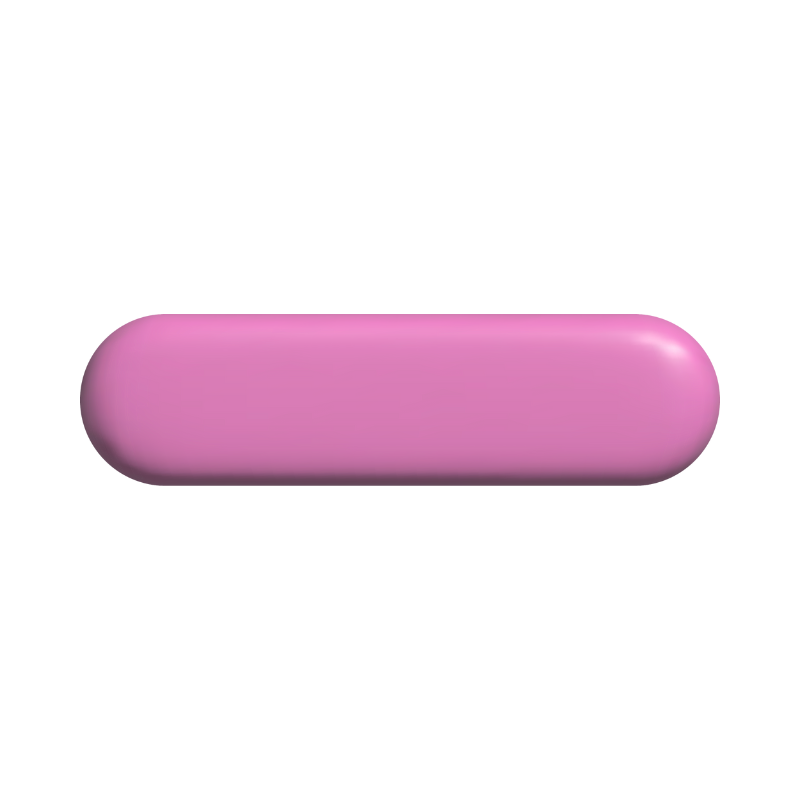
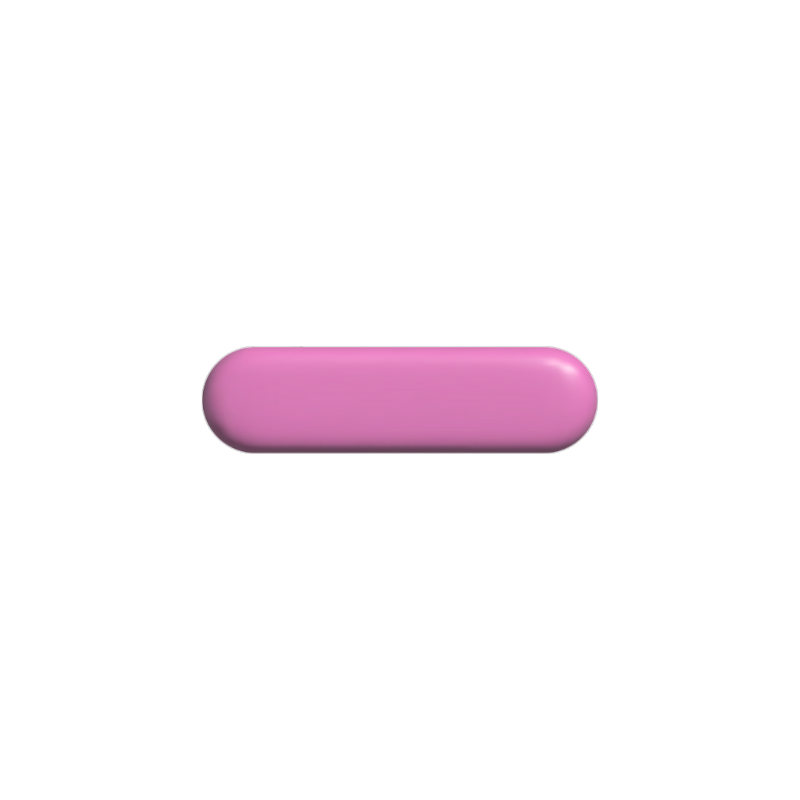
mudança de imagens

Changed region(s): [[0.0938, 0.375, 0.9062, 0.625]]

diff --git a/davim/index.html b/davim/index.html
@@ -1,245 +1,117 @@
 <!DOCTYPE html>
 <html lang="pt-BR">
+
 <head>
   <title>☆Davi G☆</title>
   <link real="stylesheet" href="estilos.css">
-    <meta name="viewport" content="width=device-width, initial-scale=1.0">
+  <meta name="viewport" content="width=device-width, initial-scale=1.0">
   <style>
-    img{
-      max-width: 100%;
-      height: auto;
-    }
-    body{
+
+    body {
       background-color: aliceblue;
     }
-    body{
+
+    body {
       margin: 0;
       padding: 0;
     }
-    h1{
+
+    h1 {
       color: rgb(244, 141, 204);
       text-align: center;
       flex-wrap: wrap;
     }
-    .imagem-solta1{
-      margin-top: 10%;
-      margin-left: 59%;
-      gap: 300px;
-      justify-content: center;
-       align-items:  flex-start;
-       display: inline-block;
-       flex-wrap: wrap;
-    }
-    .imagem-solta2{
-      top: 20%;
-      left: 59%;
-      width: 200px;
-      justify-content: center;
-       align-items:  flex-start;
-       display: inline-block;
-       flex-wrap: wrap;
-    }
-    .imagem-solta3{
-      top: 30%;
-      left: 59%;
-      width: 200px;
-      justify-content: center;
-       align-items:  flex-start;
-       display: inline-block;
-       flex-wrap: wrap;
-    }
-    .imagem-solta4{
-      top: 40%;
-      left: 59%;
-      width: 200px;
-      justify-content: center;
-       align-items:  flex-start;
-       display: inline-block;
-       flex-wrap: wrap;
-    }
-    .imagem-solta5{
-      top: 50%;
-      left: 59%;
-      width: 200px;
-      justify-content: center;
-       align-items:  flex-start;
-       display: inline-block;
-       flex-wrap: wrap;
-    }
-    .imagem-solta6{
-      top: 60%;
-      left: 59%;
-      width: 200px;
-      justify-content: center;
-       align-items:  flex-start;
-       display: inline-block;
-       flex-wrap: wrap;
-    }
-    .imagem-solta7{
+
+    .imagem-solta1 {
       top: 10%;
-      left: 27%;
-      width: 200px;
+      left: 30%;
+      width: 100px;
+      height: 40px;
+      padding: 0;
       justify-content: center;
-       align-items:  flex-start;
-       display: inline-block;
-       flex-wrap: wrap;
+      align-items: flex-start;
+      display: block;
+      flex-wrap: wrap;
     }
-    .imagem-solta8{
-      top: 20%;
-      left: 27%;
-      width: 200px;
-      justify-content: center;
-       align-items:  flex-start;
-       display: inline-block;
-       flex-wrap: wrap;
-    }
-    .imagem-solta9{
-      top: 30%;
-      left: 27%;
-      width: 200px;
-      justify-content: center;
-       align-items:  flex-start;
-       display: inline-block;
-       flex-wrap: wrap;
-    }
-    .imagem-solta10{
-      top: 40%;
-      left: 27%;
-      width: 200px;
-      justify-content: center;
-       align-items:  flex-start;
-       display: inline-block;
-       flex-wrap: wrap;
-    }
-    .imagem-solta11{
-      top: 50%;
-      left: 27%;
-      width: 200px;
-      justify-content: center;
-       align-items:  flex-start;
-       display: inline-block;
-       flex-wrap: wrap;
-    }
-    .imagem-solta12{
-      top: 60%;
-      left: 27%;
-      width: 200px;
-      justify-content: center;
-       align-items:  flex-start;
-       display: inline-block;
-       flex-wrap: wrap;
-    }
-    .imagem-solta13{
+
+    .imagem-solta2 {
       top: 10%;
-      left: 43%;
+      left: 30%;
       width: 200px;
       justify-content: center;
-       align-items:  flex-start;
-       display: inline-block;
-       flex-wrap: wrap;
+      align-items: flex-start;
+      display: inline-block;
+      flex-wrap: wrap;
     }
-    .imagem-solta14{
-      top: 20%;
-      left: 43%;
+
+    .imagem-solta3 {
+      top: 10%;
+      left: 62%;
       width: 200px;
       justify-content: center;
-       align-items:  flex-start;
-       display: inline-block;
-       flex-wrap: wrap;
+      align-items: flex-start;
+      display: inline-block;
+      flex-wrap: wrap;
     }
-    .imagem-solta15{
-      top: 30%;
-      left: 43%;
-      width: 200px;
-      justify-content: center;
-       align-items:  flex-start;
-       display: inline-block;
-       flex-wrap: wrap;
-    }
-    .imagem-solta16{
-      top: 40%;
-      left: 43%;
-      width: 200px;
-      justify-content: center;
-       align-items:  flex-start;
-       display: inline-block;
-       flex-wrap: wrap;
-    }
-    .imagem-solta17{
-      top: 50%;
-      left: 43%;
-      width: 200px;
-      justify-content: center;
-       align-items:  flex-start;
-       display: inline-block;
-       flex-wrap: wrap;
-    }
-    .imagem-solta18{
-      top: 60%;
-      left: 43%;
-      width: 200px;
-      justify-content: center;
-       align-items: flex-start;
-       display: inline-block;
-       flex-wrap: wrap;
-    }
-</style>
-    </head>
+  </style>
+</head>
+
 <body>
   <h1 style="font-size: 32px;">☆Projetos de Davi☆</h1>
   <a href="../projeto 2/index.html">
-  <img src="imagens/growth (14).png" alt="botão1" class="imagem-solta1"
+    <img src="imagens/growth (14).png" alt="botão1" class="imagem-solta1">
   </a>
   <a href="../projeto 2/index.html">
-  <img src="growth (14).png" alt="botão2" class="imagem-solta2"
+    <img src="imagens/growth (14).png" alt="botão2" class="imagem-solta1">
   </a>
   <a href="../projeto 2/index.html">
-  <img src="growth (14).png" alt="botão3" class="imagem-solta3"
+    <img src="imagens/growth (14).png" alt="botão3" class="imagem-solta1">
   </a>
   <a href="../projeto 2/index.html">
-  <img src="growth (14).png" alt="botão4" class="imagem-solta4"
+    <img src="imagens/growth (14).png" alt="botão4" class="imagem-solta1">
   </a>
   <a href="../projeto 2/index.html">
-  <img src="growth (14).png" alt="botão5" class="imagem-solta5"
+    <img src="imagens/growth (14).png" alt="botão5" class="imagem-solta1">
   </a>
   <a href="../projeto 2/index.html">
-  <img src="growth (14).png" alt="botão6" class="imagem-solta6"
+    <img src="imagens/growth (14).png" alt="botão6" class="imagem-solta1">
   </a>
   <a href="../projeto 2/index.html">
-  <img src="growth (14).png" alt="botão7" class="imagem-solta7"
+    <img src="imagens/growth (14).png" alt="botão7" class="imagem-solta2">
   </a>
   <a href="../projeto 2/index.html">
-  <img src="growth (14).png" alt="botão8" class="imagem-solta8"
+    <img src="imagens/growth (14).png" alt="botão8" class="imagem-solta2">
   </a>
   <a href="../projeto 2/index.html">
-  <img src="growth (14).png" alt="botão9" class="imagem-solta9"
+    <img src="imagens/growth (14).png" alt="botão9" class="imagem-solta2">
   </a>
   <a href="../projeto 2/index.html">
-  <img src="growth (14).png" alt="botão10" class="imagem-solta10"
+    <img src="imagens/growth (14).png" alt="botão10" class="imagem-solta2">
   </a>
   <a href="../projeto 2/index.html">
-  <img src="growth (14).png" alt="botão11" class="imagem-solta11"
+    <img src="imagens/growth (14).png" alt="botão11" class="imagem-solta2">
   </a>
   <a href="../projeto 2/index.html">
-  <img src="growth (14).png" alt="botão12" class="imagem-solta12"
+    <img src="imagens/growth (14).png" alt="botão12" class="imagem-solta2">
   </a>
   <a href="../projeto 2/index.html">
-  <img src="growth (14).png" alt="botão13" class="imagem-solta13"
+    <img src="imagens/growth (14).png" alt="botão13" class="imagem-solta3">
   </a>
   <a href="../projeto 2/index.html">
-  <img src="growth (14).png" alt="botão14" class="imagem-solta14"
+    <img src="imagens/growth (14).png" alt="botão14" class="imagem-solta3">
   </a>
   <a href="../projeto 2/index.html">
-  <img src="growth (14).png" alt="botão15" class="imagem-solta15"
+    <img src="imagens/growth (14).png" alt="botão15" class="imagem-solta3">
+  </a>
+  <a href="../projeto 2/index.html"></a>
+  <img src="imagens/growth (14).png" alt="botão16" class="imagem-solta3">
   </a>
   <a href="../projeto 2/index.html">
-  <img src="growth (14).png" alt="botão16" class="imagem-solta16"
+    <img src="imagens/growth (14).png" alt="botão17" class="imagem-solta3">
   </a>
   <a href="../projeto 2/index.html">
-  <img src="growth (14).png" alt="botão17" class="imagem-solta17"
-  </a>
-  <a href="../projeto 2/index.html">
-  <img src="growth (14).png" alt="botão18" class="imagem-solta18"
+    <img src="imagens/growth (14).png" alt="botão18" class="imagem-solta3">
   </a>
 </body>
+
 </html>
